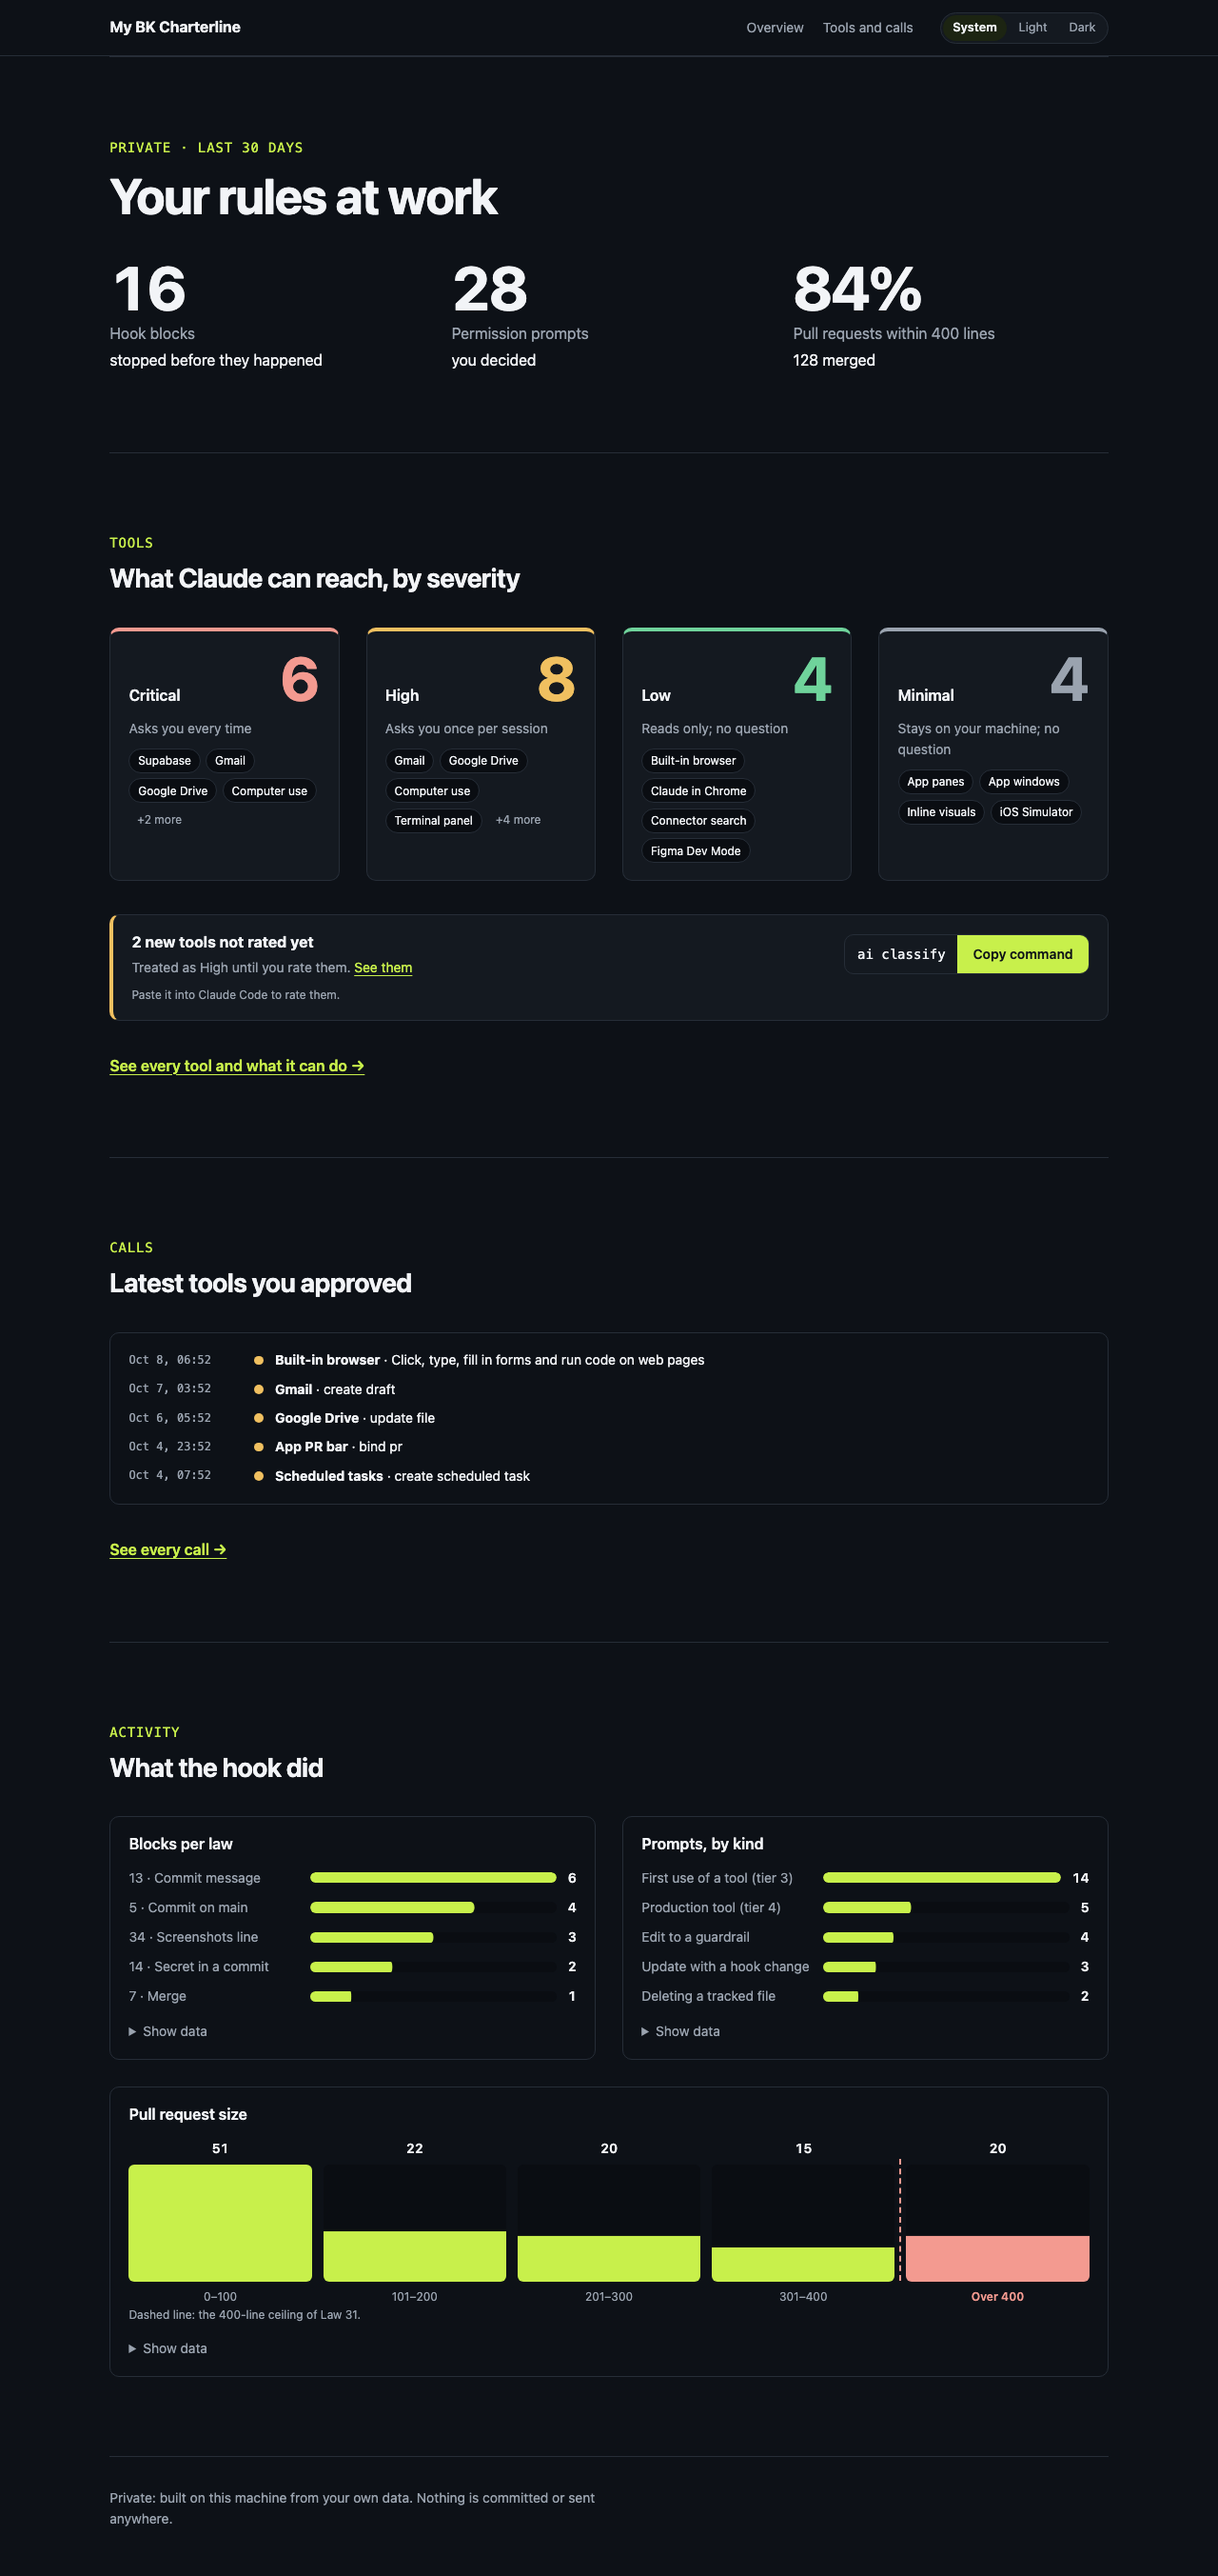
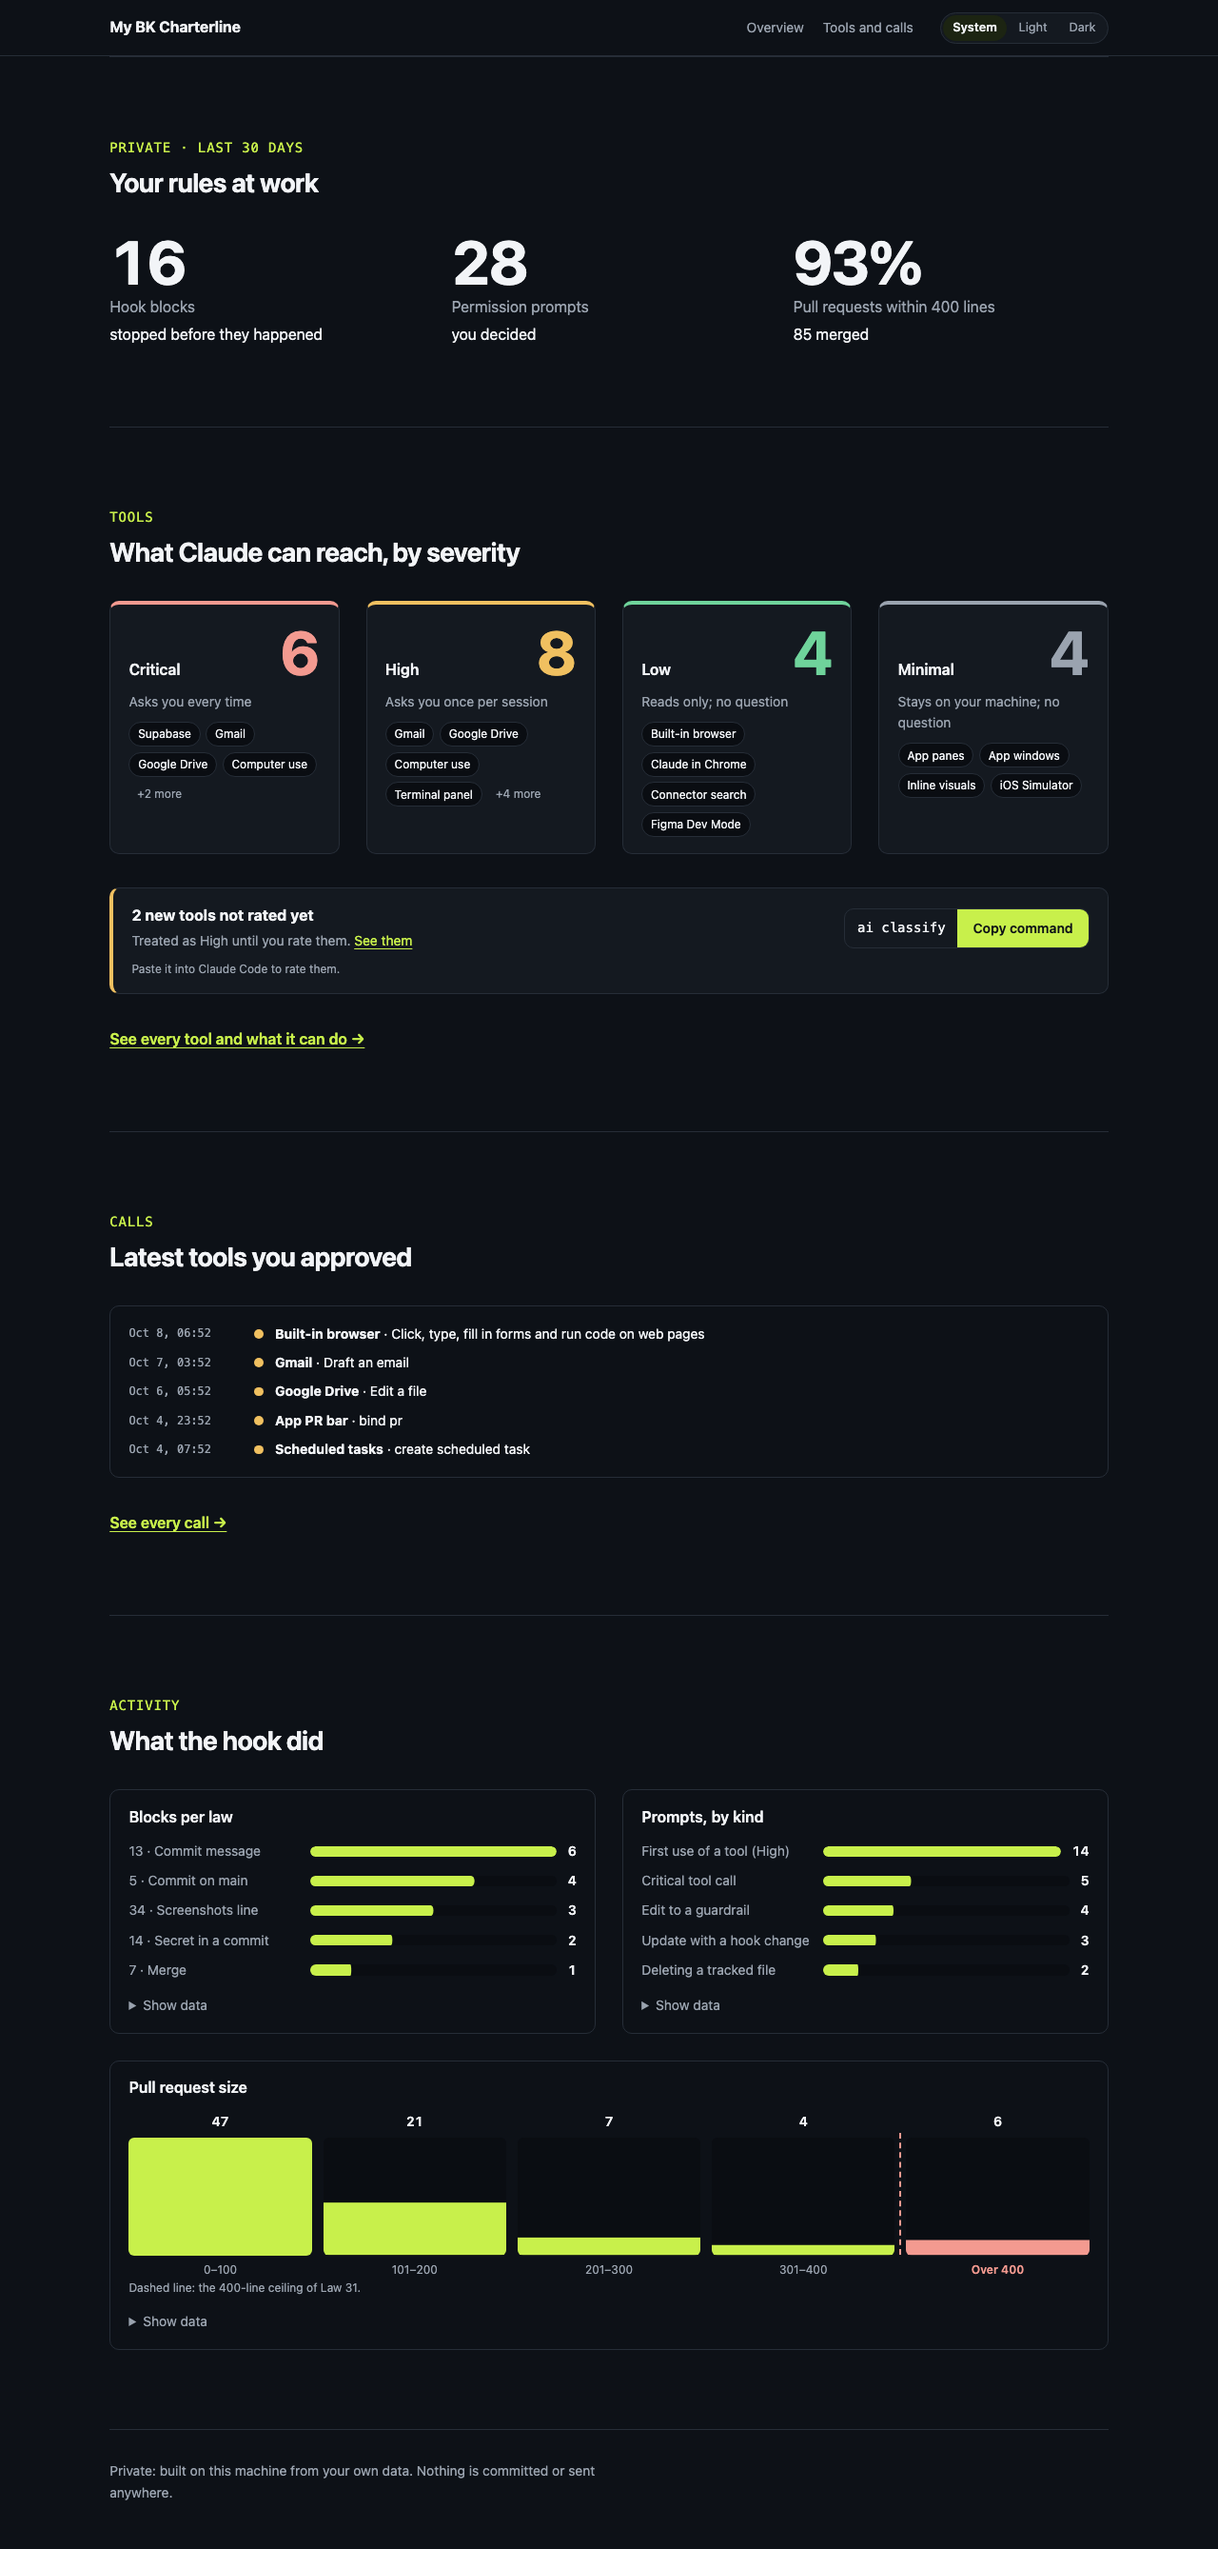
fix(dashboard): check both pages with axe and fix what it found (#120)
A Playwright check builds the dashboard from example data with the real
my_metrics.py and runs axe (WCAG 2.2 AA) on both pages at 390 and 1280 px
in light and dark, checks nothing scrolls sideways or calls another site,
and clicks Copy command. The Site workflow now runs on dashboard changes.

Fixes it found: the severity dots carry hidden text instead of an
aria-label on a plain span, and the scrolling tables are focusable
regions with a name. The README gets a "Your private dashboard" section
and screenshots retaken from the final code, still with example data.

diff --git a/site/dashboard.spec.js b/site/dashboard.spec.js
@@ -1,0 +1,55 @@
+// Checks for the private dashboard (#120): it's built from fixture data by the
+// real scripts/my_metrics.py, then checked like the page: WCAG 2.2 AA with axe
+// at phone and desktop width in light and dark, the Copy command button, and
+// no requests to other sites. Run: cd site && npx playwright test
+const { test, expect } = require("@playwright/test");
+const { AxeBuilder } = require("@axe-core/playwright");
+const { execFileSync } = require("child_process");
+const fs = require("fs");
+const os = require("os");
+const path = require("path");
+
+const now = new Date().toISOString().replace(/\.\d+Z$/, "Z");
+const home = fs.mkdtempSync(path.join(os.tmpdir(), "dashboard-"));
+const rules = path.join(home, ".bk-charterline");
+fs.mkdirSync(rules);
+const write = (name, value) => fs.writeFileSync(path.join(rules, name), typeof value === "string" ? value : JSON.stringify(value));
+write("hook-log.jsonl", [
+  { ts: now, type: "block", law: 13, check: "commit-message" },
+  { ts: now, type: "ask", law: 38, check: "tier4-unapproved", tool: "mcp__db__execute_sql" },
+  { ts: now, type: "ask", law: 38, check: "tier3-first-use", tool: "mcp__mail__create_draft" },
+].map((r) => JSON.stringify(r)).join("\n") + "\n");
+write("ai-tools.json", { version: 1, tools: {
+  "mcp:db": { tier: 4, owner: "alice", label: "Supabase" },
+  "mcp:mail": { tier: 3, owner: "alice", label: "Gmail", overrides: { send_message: 4 } },
+  "mcp:viz": { tier: 1, owner: "alice", label: "Inline visuals" },
+} });
+write("ai-inventory.json", { "mcp|session|db": {}, "mcp|session|chat": {} });
+execFileSync("python3", [path.join(__dirname, "..", "scripts", "my_metrics.py"), "--local-only"], { env: { ...process.env, HOME: home } });
+const PAGES = ["index.html", "tools.html"].map((p) => "file://" + path.join(rules, "dashboard", p));
+
+for (const colorScheme of ["light", "dark"]) {
+  for (const width of [390, 1280]) {
+    test(`the dashboard has no axe violations at ${width}px in ${colorScheme}`, async ({ page }) => {
+      const problems = [];
+      page.on("pageerror", (e) => problems.push("error: " + e.message));
+      page.on("request", (r) => !r.url().startsWith("file://") && problems.push("request: " + r.url()));
+      await page.emulateMedia({ colorScheme, reducedMotion: "reduce" });
+      await page.setViewportSize({ width, height: 900 });
+      for (const url of PAGES) {
+        await page.goto(url);
+        expect(await page.evaluate(() => document.documentElement.scrollWidth <= window.innerWidth)).toBe(true);
+        const { violations } = await new AxeBuilder({ page }).withTags(["wcag2a", "wcag2aa", "wcag21a", "wcag21aa", "wcag22aa"]).analyze();
+        expect(violations.map((v) => `${path.basename(url)}: ${v.id} (${v.nodes.length})`)).toEqual([]);
+      }
+      expect(problems).toEqual([]);
+    });
+  }
+}
+
+test("the Copy command button says where to paste", async ({ page, context }) => {
+  await context.grantPermissions(["clipboard-read", "clipboard-write"]);
+  await page.goto(PAGES[0]);
+  await page.getByRole("button", { name: "Copy command" }).click();
+  await expect(page.locator("#cmd-status")).toHaveText("Copied. Paste it into Claude Code and press Enter.");
+});

diff --git a/scripts/my_metrics.py b/scripts/my_metrics.py
@@ -130,7 +130,7 @@ def overview(d: dict) -> str:
     if "error" in act or not act["calls"]:
         feed = empty(act) if "error" in act else '<p class="empty">Your first approved call shows up here.</p>'
     else:
-        feed = "".join(f'<li><time>{w}</time><span class="dot sev-{c}" aria-label="{c}"></span><span><strong>{e(l)}</strong> · {e(a)}</span></li>'
+        feed = "".join(f'<li><time>{w}</time><span class="dot sev-{c}"></span><span><span class="visually-hidden">{c.title()}: </span><strong>{e(l)}</strong> · {e(a)}</span></li>'
                        for w, c, l, a, _ in (call_row(x, tools.get("tools", [])) for x in act["calls"][:5]))
         feed = f'<div class="card"><ul class="feed">{feed}</ul></div><a class="see" href="tools.html#calls">See every call →</a>'
     main += section("Calls", "Latest tools you approved", feed)
@@ -167,7 +167,7 @@ def tools_page(d: dict) -> str:
                    f"<td><code>{e(t)}</code></td></tr>" for w, c, l, a, t in (call_row(x, tools.get("tools", [])) for x in act.get("calls", [])))
     head = "".join(f'<th scope="col">{h}</th>' for h in ("When", "Severity", "Tool", "What it can do", "Call"))
     main += section(f"Last {d['window_days']} days · UTC", "Every High and Critical call",
-                    f'<div class="table"><table><thead><tr>{head}</tr></thead><tbody>{rows}</tbody></table></div>' if rows
+                    f'<div class="table" tabindex="0" role="region" aria-label="Every call"><table><thead><tr>{head}</tr></thead><tbody>{rows}</tbody></table></div>' if rows
                     else (empty(act) if "error" in act else '<p class="empty">No calls yet.</p>'), "calls")
     prs = d["pull_requests"]
     if "error" in prs:
@@ -178,7 +178,7 @@ def tools_page(d: dict) -> str:
         rows = "".join(f'<tr><th scope="row">{e(p["name"])}</th>' + "".join(f'<td{" colspan=6" if len(cells(p)) == 1 else ""}>{c}</td>' for c in cells(p)) + "</tr>"
                        for p in prs["projects"])
         head = "".join(f'<th scope="col">{h}</th>' for h in ("Project", "Merged", "Median lines", "Within 400", "Median time to merge", "Reverts", "Made with Claude Code"))
-        body = f'<div class="table"><table><thead><tr>{head}</tr></thead><tbody>{rows}</tbody></table></div>' if rows else '<p class="empty">No projects with a repo in projects.yaml.</p>'
+        body = f'<div class="table" tabindex="0" role="region" aria-label="Pull requests per project"><table><thead><tr>{head}</tr></thead><tbody>{rows}</tbody></table></div>' if rows else '<p class="empty">No projects with a repo in projects.yaml.</p>'
     return page("Tools and calls · My BK Charterline", main + section(f"Last {d['window_days']} days", "Pull requests per project", body, "projects"))
 
 

diff --git a/README.md b/README.md
@@ -30,6 +30,7 @@ It's not only for developers. BK Charterline carries the full product craft, fro
 ## Table of contents
 
 - [Why BK Charterline](#why-bk-charterline)
+- [Your private dashboard](#your-private-dashboard)
 - [Quick start](#quick-start)
 - [Installation](#installation)
 - [Architecture](#architecture)
@@ -58,6 +59,16 @@ Out of the box, an AI coding assistant will happily push to `main`, invent APIs,
 | No audit trail | Pre-execution announcements, Conventional Commits, living `PROJECT_KNOWLEDGE.md` |
 | Stale repos | Auto branch cleanup, orphaned issue detection, README kept current with every PR |
 | "Claude might forget and merge/push to `main` anyway" | **Law 32** — a `PreToolUse` hook mechanically blocks merge, push or force-push to `main`, skipped git hooks, malformed commits and secret commits, and asks you in the app before Claude changes its own guardrails (including git in the installed `~/.bk-charterline`), deletes tracked files, runs a Netlify or Vercel command that changes a site, or calls a tier 3 or 4 MCP tool |
+
+---
+
+## Your private dashboard
+
+Every install builds a private dashboard of what the rules do for you: what the hook stopped, what you were asked, which tools Claude can reach and how risky each one is (Critical, High, Low, Minimal), which tool was used on which call, and how your pull requests go in each project you registered. The screenshots at the top show it with example data.
+
+- **Where:** `~/.bk-charterline/dashboard/index.html`. Open it straight from the file; it needs no server.
+- **When it's rebuilt:** on every `update rules`, after every pull request you merge and every pull of `main`, quietly at session start when something changed, and whenever you type `my metrics`.
+- **Private:** it's built on your machine from your own files and your own `gh` login. Nothing is committed or sent anywhere.
 
 ---
 
